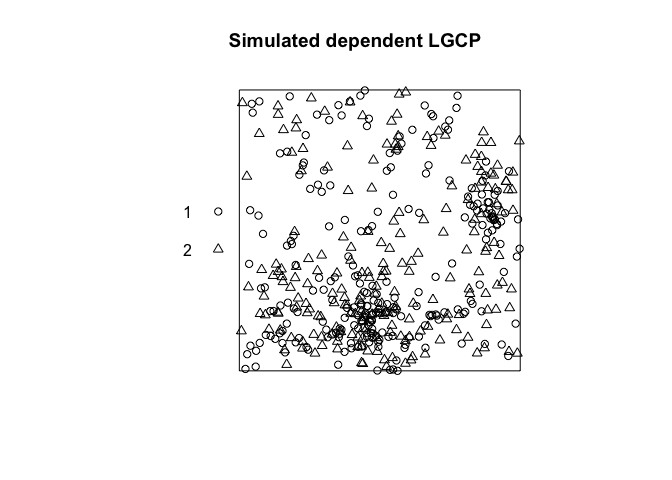
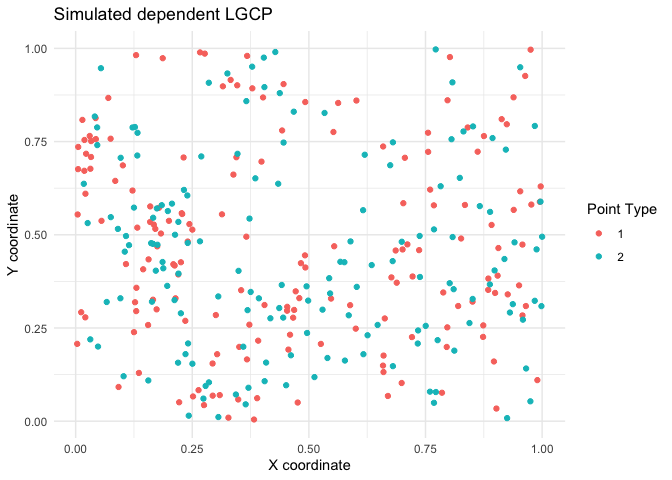
Updated plots in readme.

diff --git a/README.md b/README.md
@@ -16,12 +16,11 @@ You can install the development version of spatbiome from
 
 # Install a package from GitHub
 pak::pak("asmita112358/spatbiome")
-#> ✔ Updated metadata database: 7.33 MB in 14 files.
-#> ℹ Updating metadata database✔ Updating metadata database ... done
+#> ℹ Loading metadata database✔ Loading metadata database ... done
 #>  
 #> → Package library at '/Library/Frameworks/R.framework/Versions/4.6/Resources/library'.
 #> ℹ No downloads are needed
-#> ✔ 1 pkg + 40 deps: kept 40 [9.8s]
+#> ✔ 1 pkg + 40 deps: kept 40 [4.5s]
 ```
 
 ## Generate data
@@ -39,7 +38,7 @@ generate_LGCP <- function(win, corrfun = "exponential",mu = 5, scale = 0.1, depe
     data2 <- spatstat.random::rLGCP(corrfun, mu = mu, win = win, scale = scale, var = 1)
   } else {
     data2 <- data1
-    runif_sh <- spatstat.random::runifdisc(data1$n, radius = 0.2)
+    runif_sh <- spatstat.random::runifdisc(data1$n, radius = 0.1)
     data2$x <- data1$x + runif_sh$x
     data2$y <- data1$y + runif_sh$y
 
@@ -64,8 +63,13 @@ for two independent Log Gaussian point processes. The null hypothesis is
 that the two point patterns are independent.
 
 ``` r
+library(ggplot2)
 X <- generate_LGCP(win = spatstat.geom::owin(c(0, 1), c(0, 1)), corrfun = "exponential", mu = 5, scale = 0.1, dependant = FALSE)
-plot(X, main = "Simulated independent LGCP")
+plot_X <- data.frame(X)
+ggplot(plot_X, aes(x = x, y = y, color = marks)) + 
+  geom_point() +
+  labs(title = "Simulated independent LGCP", x = "X coordinate", y = "Y coordinate", color = "Point Type") +
+  theme_minimal()
 ```
 
 <img src="man/figures/README-unnamed-chunk-3-1.png" alt="" width="100%" />
@@ -74,19 +78,19 @@ plot(X, main = "Simulated independent LGCP")
 res <- ARShift(data = X, i = "1", j = "2", n_perm = 499, workers = 5, type = "hom")
 res
 #> $p
-#> [1] 0.978
+#> [1] 0.734
 #> 
 #> $K
-#>  [1] 0.000000e+00 0.000000e+00 4.638219e-05 1.391466e-04 3.555968e-04
-#>  [6] 6.388793e-04 8.576736e-04 1.107047e-03 1.693899e-03 2.107979e-03
-#> [11] 2.477456e-03 2.902251e-03 3.619701e-03 4.614773e-03 5.423976e-03
-#> [16] 6.197026e-03 7.171567e-03 8.081193e-03 8.800024e-03 9.950374e-03
-#> [21] 1.094189e-02 1.208581e-02 1.328100e-02 1.446550e-02 1.622188e-02
-#> [26] 1.743779e-02 1.906610e-02 2.040570e-02 2.194648e-02 2.384951e-02
-#> [31] 2.574690e-02 2.765557e-02 2.969256e-02 3.150141e-02 3.313605e-02
-#> [36] 3.513753e-02 3.738270e-02 3.940355e-02 4.144544e-02 4.332919e-02
-#> [41] 4.520679e-02 4.774279e-02 4.974814e-02 5.257372e-02 5.472340e-02
-#> [46] 5.754131e-02 6.007532e-02 6.245702e-02 6.507961e-02 6.764358e-02
+#>  [1] 0.0000000000 0.0000000000 0.0001598465 0.0002397698 0.0003196931
+#>  [6] 0.0005861040 0.0009057971 0.0012431177 0.0018178701 0.0022263173
+#> [11] 0.0028287516 0.0033405012 0.0037607092 0.0044685066 0.0051111127
+#> [16] 0.0058117311 0.0067692398 0.0076091569 0.0085567557 0.0098494532
+#> [21] 0.0107741500 0.0119637650 0.0133247823 0.0148594433 0.0163486824
+#> [26] 0.0177488920 0.0190152092 0.0204699008 0.0219333402 0.0238452746
+#> [31] 0.0256291224 0.0278174352 0.0299507035 0.0319338691 0.0338163745
+#> [36] 0.0355390238 0.0376603552 0.0395596056 0.0418380610 0.0449112985
+#> [41] 0.0472506869 0.0500893856 0.0524900363 0.0550074434 0.0578975107
+#> [46] 0.0614293714 0.0642734868 0.0672939882 0.0701635457 0.0732117117
 #> 
 #> $r
 #>  [1] 0.000000000 0.003061224 0.006122449 0.009183673 0.012244898 0.015306122
@@ -116,7 +120,11 @@ association between point types.
 
 ``` r
 X <- generate_LGCP(win = spatstat.geom::owin(c(0, 1), c(0, 1)), corrfun = "exponential", mu = 5, scale = 0.1, dependant = TRUE)
-plot(X, main = "Simulated dependent LGCP")
+plot_X <- data.frame(X)
+ggplot(plot_X, aes(x = x, y = y, color = marks)) + 
+  geom_point() +
+  labs(title = "Simulated dependent LGCP", x = "X coordinate", y = "Y coordinate", color = "Point Type") +
+  theme_minimal()
 ```
 
 <img src="man/figures/README-unnamed-chunk-5-1.png" alt="" width="100%" />
@@ -125,19 +133,19 @@ plot(X, main = "Simulated dependent LGCP")
 res <- ARShift(data = X, i = "1", j = "2", n_perm = 499, workers = 5, type = "hom")
 res
 #> $p
-#> [1] 0.002
+#> [1] 0.008
 #> 
 #> $K
-#>  [1] 0.0000000000 0.0001747030 0.0003105831 0.0006211662 0.0009511608
-#>  [6] 0.0014752698 0.0020724307 0.0026935970 0.0033924090 0.0043004212
-#> [11] 0.0053680507 0.0066880290 0.0080801185 0.0093029635 0.0104311789
-#> [16] 0.0119153516 0.0131553170 0.0151246590 0.0166368232 0.0183234268
-#> [21] 0.0200989223 0.0222146912 0.0244851611 0.0265865302 0.0287634592
-#> [26] 0.0310283010 0.0338795159 0.0367619803 0.0393546887 0.0417828531
-#> [31] 0.0447244058 0.0479815226 0.0507638352 0.0535794006 0.0571314807
-#> [36] 0.0603820265 0.0635348447 0.0672794404 0.0705643397 0.0741141128
-#> [41] 0.0775584261 0.0813193541 0.0852693537 0.0887232375 0.0926399377
-#> [46] 0.0965988340 0.1009346834 0.1051919224 0.1094183366 0.1134878228
+#>  [1] 0.000000e+00 7.410701e-05 2.964280e-04 3.705351e-04 5.558026e-04
+#>  [6] 8.522306e-04 1.259819e-03 1.963836e-03 2.651382e-03 3.402544e-03
+#> [11] 4.342162e-03 5.564305e-03 6.753510e-03 8.169117e-03 9.314459e-03
+#> [16] 1.040607e-02 1.187087e-02 1.332239e-02 1.473571e-02 1.569910e-02
+#> [21] 1.761700e-02 1.946405e-02 2.117340e-02 2.264205e-02 2.442902e-02
+#> [26] 2.666466e-02 2.882016e-02 3.055601e-02 3.269732e-02 3.498960e-02
+#> [31] 3.749778e-02 3.993395e-02 4.265239e-02 4.499247e-02 4.724654e-02
+#> [36] 4.922195e-02 5.144335e-02 5.376509e-02 5.688665e-02 5.951856e-02
+#> [41] 6.239257e-02 6.501051e-02 6.788052e-02 7.026818e-02 7.312592e-02
+#> [46] 7.728439e-02 8.015372e-02 8.350443e-02 8.667021e-02 8.987049e-02
 #> 
 #> $r
 #>  [1] 0.000000000 0.003061224 0.006122449 0.009183673 0.012244898 0.015306122
